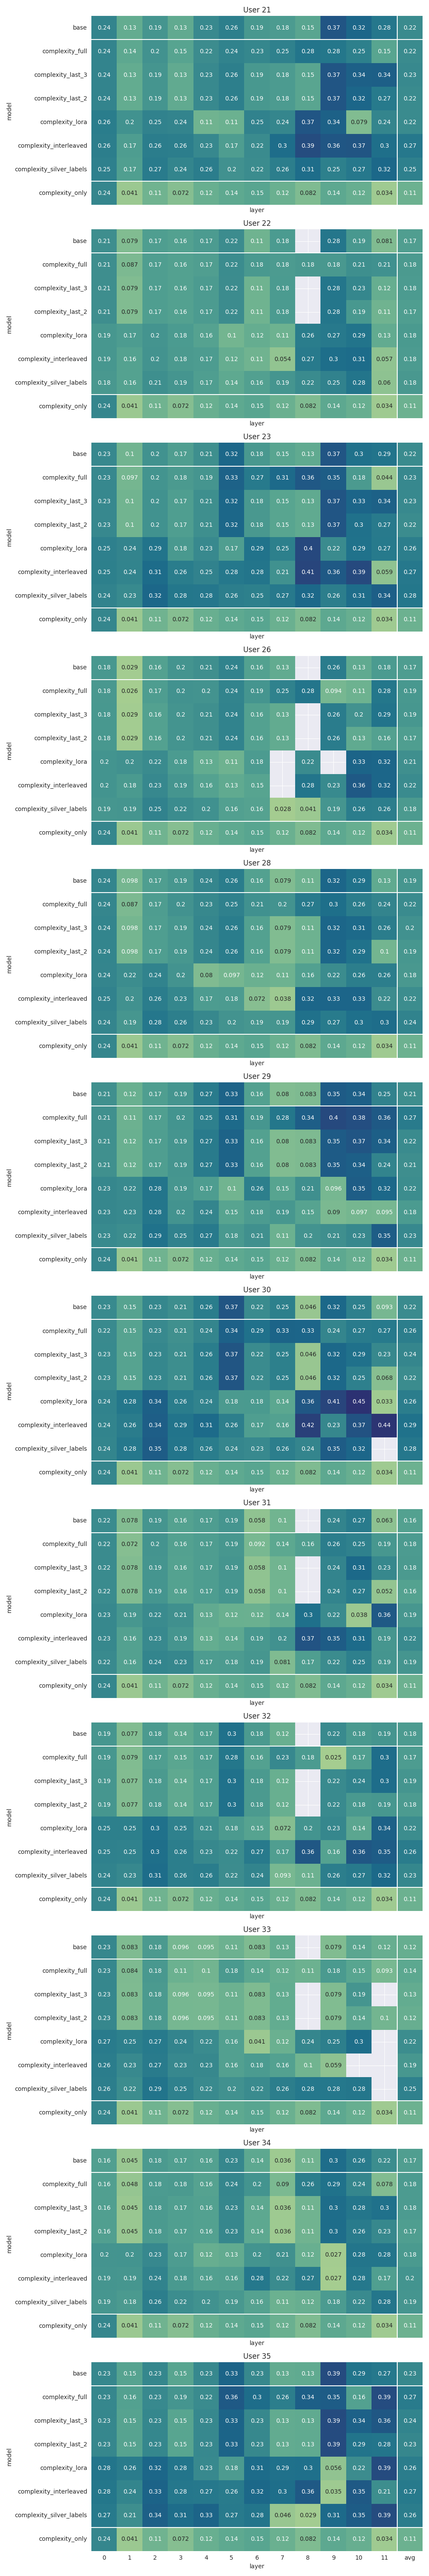
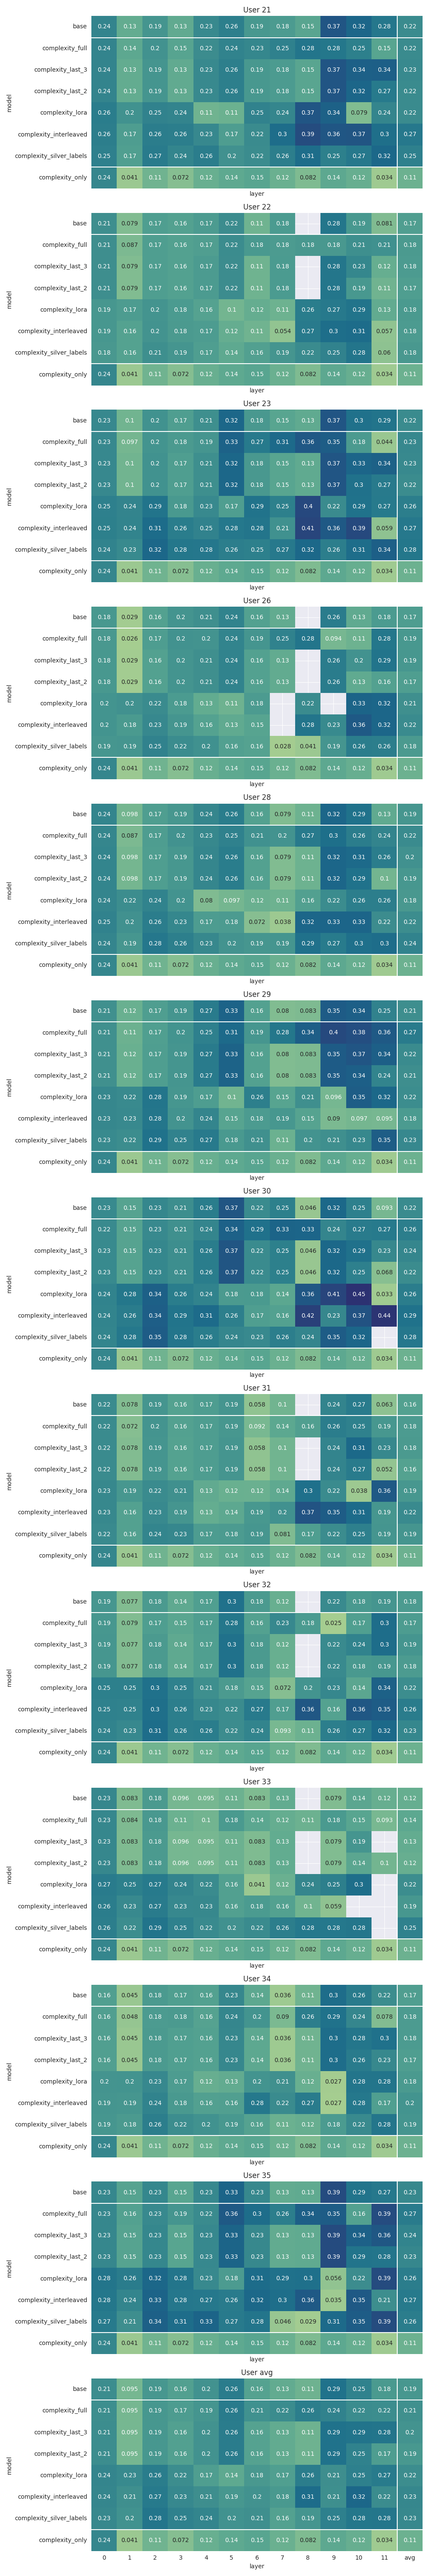
added average user on attention correlation comparison

diff --git a/scripts/eval/downstream_task_evaluation_comparison.py b/scripts/eval/downstream_task_evaluation_comparison.py
@@ -1,0 +1,102 @@
+import seaborn as sns
+import pandas as pd
+import argparse
+import json
+import os
+import re
+
+sns.set_style('darkgrid')
+
+def load_trainer_state(model_dir):
+    """Load trainer state from the specified directory."""
+    trainer_state_path = os.path.join(model_dir, 'trainer_state.json')
+    with open(trainer_state_path, 'r') as src_file:
+        return json.load(src_file)
+
+def parse_log_history_eval_metrics(log_history):
+    """Parse evaluation metrics from the log history."""
+    logs_dict = {'epoch': [], 'metric': [], 'score': []}
+    for entry in log_history:
+        if 'eval_complexity' in entry:
+            for metric in ['mae', 'spearmanr']:
+                logs_dict['epoch'].append(entry['epoch'])
+                logs_dict['metric'].append(metric)
+                logs_dict['score'].append(entry['eval_complexity'][metric])
+        elif 'eval_loss' in entry or 'eval_dst_loss' in entry:
+            prefix = 'eval_' if 'eval_loss' in entry else 'eval_dst_'
+            for metric in ['mae', 'spearmanr']:
+                logs_dict['epoch'].append(entry['epoch'])
+                logs_dict['metric'].append(metric)
+                logs_dict['score'].append(entry[f'{prefix}{metric}'])
+    return pd.DataFrame.from_dict(logs_dict)
+
+def load_and_parse_trainer_state(model_dir):
+    """Load trainer state and parse metrics for a given model directory."""
+    trainer_state = load_trainer_state(model_dir)
+    try:
+        user_id = re.findall(r'pp(\d+)', model_dir)[0]
+    except:
+        user_id = 'no_ft'
+    metrics_df = parse_log_history_eval_metrics(trainer_state['log_history'])
+    metrics_df['user'] = user_id
+    return metrics_df
+
+
+def load_baseline_scores(src_path):
+    trainer_state = load_trainer_state(src_path)
+    metrics_df = parse_log_history_eval_metrics(trainer_state['log_history'])
+    last_epoch_scores = metrics_df[metrics_df['epoch'] == metrics_df['epoch'].max()]
+    metrics = {
+        'mae': last_epoch_scores[last_epoch_scores['metric'] == 'mae']['score'].item(),
+        'spearmanr': last_epoch_scores[last_epoch_scores['metric'] == 'spearmanr']['score'].item()
+    }
+    return metrics
+
+def load_metrics_dataframe(src_dir):
+    metrics_dfs = []
+    for finetuning_config in os.listdir(src_dir):
+        config_path = os.path.join(src_dir, finetuning_config)
+        if not 'trainer_state.json' in os.listdir(config_path):
+            for user_dir_name in os.listdir(config_path):
+                if finetuning_config == 'lora' and 'adapters' not in user_dir_name:
+                    continue
+                user_path = os.path.join(config_path, user_dir_name)
+                metrics_df = load_and_parse_trainer_state(user_path)
+                metrics_df['model'] = finetuning_config
+                last_epoch_df = metrics_df[metrics_df['epoch'] == metrics_df['epoch'].max()]
+                metrics_dfs.append(last_epoch_df)
+    metrics_dfs = pd.concat(metrics_dfs, axis=0)
+    return metrics_dfs
+
+def plot_metrics(df, metric, output_path):
+    plot = sns.heatmap(data=df, annot=True, cmap='crest' if metric == 'spearmanr' else 'crest_r', cbar=False);
+    plot.vlines([7], *plot.get_ylim(), color='white');
+    plot.set_title(metric.upper())
+    plot.figure.tight_layout()
+    plot.figure.savefig(output_path)
+    plot.cla()
+
+
+def main():
+    parser = argparse.ArgumentParser()
+    parser.add_argument('-t', '--downstream_task', type=str)
+    args = parser.parse_args()
+
+    models_directory = f'models/{args.downstream_task}'
+    plots_out_dir = f'results/{args.downstream_task}'
+    baseline_dir = f'models/{args.downstream_task}/roberta-base_baseline'
+    
+    baseline_metrics = load_baseline_scores(baseline_dir)
+    metrics_df = load_metrics_dataframe(models_directory)
+
+    for metric in ['mae', 'spearmanr']:
+        metric_df = metrics_df[metrics_df['metric'] == metric]
+        pivoted_df = metric_df.pivot(index='user', columns='model', values='score')
+        pivoted_df['complexity_only'] = baseline_metrics[metric]
+        pivoted_df = pivoted_df.reindex(['full_model', 'last_3', 'last_2', 'regressor_only', 'lora', 'interleaved_multitask', 'silver_labels', 'complexity_only'], axis=1)
+        plot_metrics(pivoted_df, metric, f'{plots_out_dir}/{metric}_comparison.png')
+    
+    
+
+if __name__ == '__main__':
+    main()

diff --git a/scripts/eval/compare_correlations.py b/scripts/eval/compare_correlations.py
@@ -80,6 +80,12 @@ def main():
     correlations_dict = load_json(json_correlations_path)
     correlations_df = convert_dict_to_df(correlations_dict)
 
+    # Add user avg
+
+    avg_scores = correlations_df[correlations_df['user'] != 'no'].groupby(['model', 'layer'])['score'].mean().reset_index()
+    avg_scores['user'] = 'avg'
+    correlations_df = pd.concat([correlations_df, avg_scores])
+
     user_ids = correlations_df['user'].unique().tolist()
     vmin, vmax = correlations_df['score'].min(), correlations_df['score'].max()
     fig, axes = plt.subplots(len(user_ids)-1, 1, sharex=True, figsize=(10, 60))
@@ -99,6 +105,7 @@ def main():
             plot.set_title(f'User {user}')
             plot.hlines([1, 7], *plot.get_xlim(), color='white')
             plot.vlines([12], *plot.get_ylim(), color='white')
+
 
     plt.tight_layout()
     fig.savefig(output_path)
